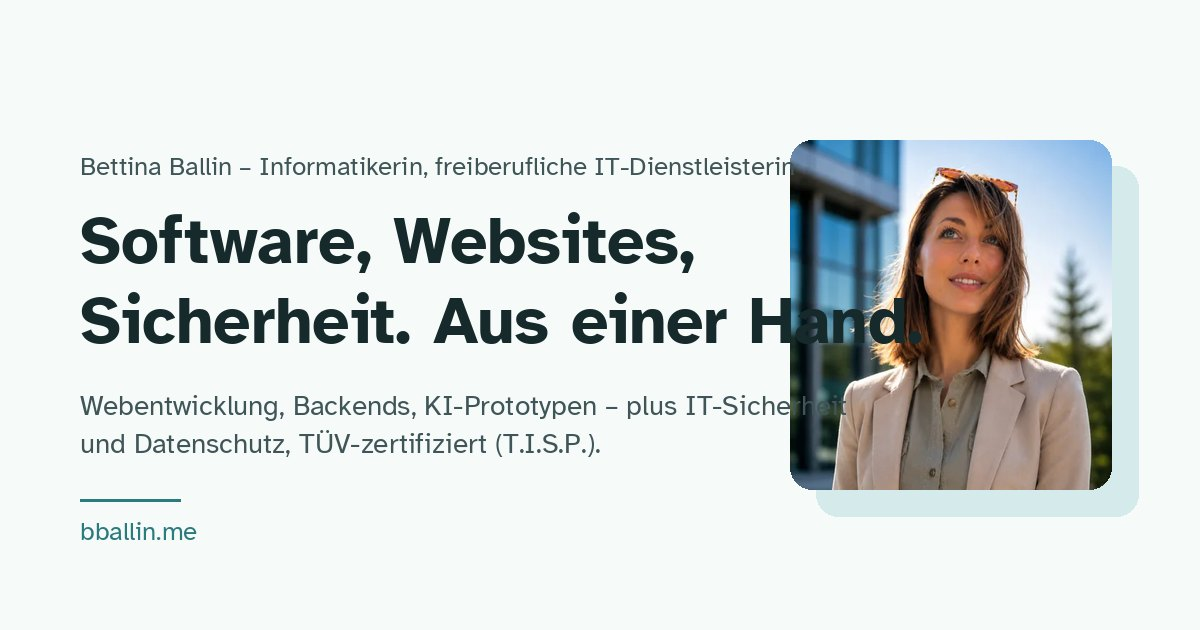
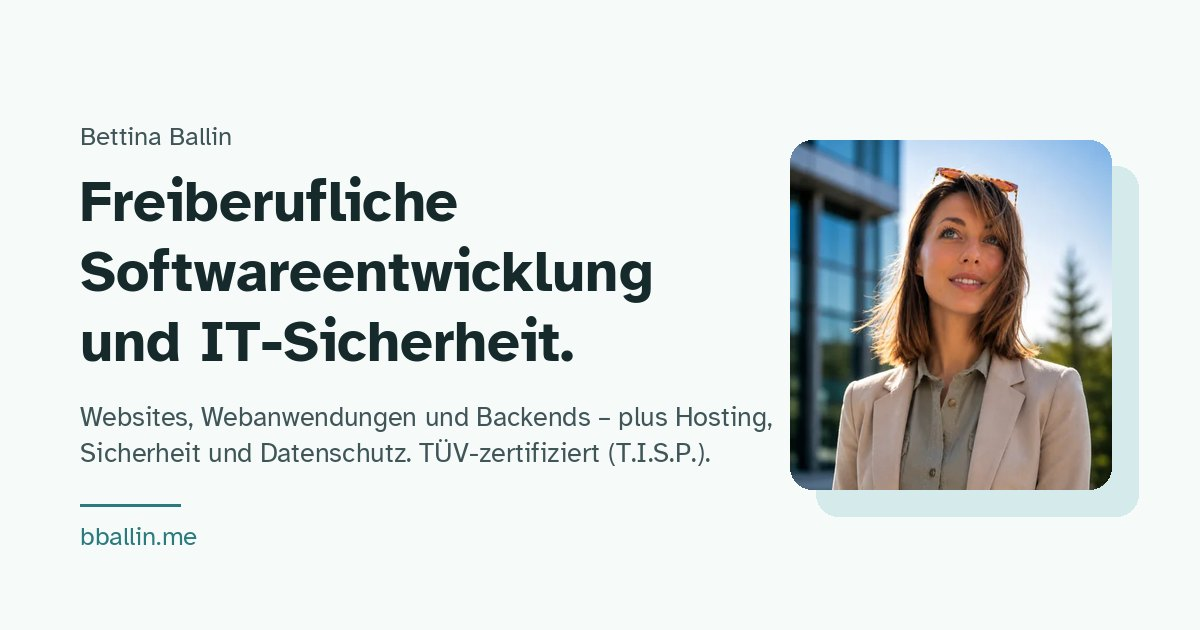
updated hero text

Changed region(s): [[0.0617, 0.2111, 0.7708, 0.573], [0.0617, 0.6333, 0.7092, 0.754], [0.0617, 0.7841, 0.185, 0.8746]]

diff --git a/site/index.html b/site/index.html
@@ -3,7 +3,7 @@
 <head>
   <meta charset="UTF-8">
   <meta name="viewport" content="width=device-width, initial-scale=1, viewport-fit=cover">
-  <title>Bettina Ballin – Softwareentwicklung, Websites und IT-Sicherheit</title>
+  <title>Bettina Ballin – Freiberufliche Softwareentwicklung und IT-Sicherheit</title>
   <meta name="description" content="Bettina Ballin ist Informatikerin (M.Sc.) und freiberufliche IT-Dienstleisterin: Webentwicklung, Software und Backends, KI-Prototypen, IT-Sicherheit und Datenschutz – aus einer Hand, TÜV-zertifiziert (T.I.S.P.).">
   <meta name="author" content="Bettina Ballin">
   <meta name="robots" content="index, follow">
@@ -18,8 +18,8 @@
   <meta property="og:type" content="website">
   <meta property="og:site_name" content="Bettina Ballin">
   <meta property="og:url" content="https://bballin.me/">
-  <meta property="og:title" content="Bettina Ballin – Softwareentwicklung, Websites und IT-Sicherheit">
-  <meta property="og:description" content="Informatikerin und freiberufliche IT-Dienstleisterin. Websites, Software, Backends, KI-Prototypen – plus IT-Sicherheit und Datenschutz aus einer Hand.">
+  <meta property="og:title" content="Bettina Ballin – Freiberufliche Softwareentwicklung und IT-Sicherheit">
+  <meta property="og:description" content="Websites, Webanwendungen und Backends – plus Hosting, Sicherheit und Datenschutz. Informatikerin (M.Sc.), TÜV-zertifiziert (T.I.S.P.).">
   <meta property="og:image" content="https://bballin.me/assets/img/og-image.jpg">
   <meta property="og:image:width" content="1200">
   <meta property="og:image:height" content="630">
@@ -27,8 +27,8 @@
   <meta property="og:locale" content="de_DE">
   <meta property="og:locale:alternate" content="en_GB">
   <meta name="twitter:card" content="summary_large_image">
-  <meta name="twitter:title" content="Bettina Ballin – Softwareentwicklung, Websites und IT-Sicherheit">
-  <meta name="twitter:description" content="Informatikerin und freiberufliche IT-Dienstleisterin. Websites, Software, Backends, KI-Prototypen – plus IT-Sicherheit und Datenschutz aus einer Hand.">
+  <meta name="twitter:title" content="Bettina Ballin – Freiberufliche Softwareentwicklung und IT-Sicherheit">
+  <meta name="twitter:description" content="Websites, Webanwendungen und Backends – plus Hosting, Sicherheit und Datenschutz. Informatikerin (M.Sc.), TÜV-zertifiziert (T.I.S.P.).">
   <meta name="twitter:image" content="https://bballin.me/assets/img/og-image.jpg">
 
   <link rel="icon" href="favicon.svg" type="image/svg+xml">
@@ -94,9 +94,9 @@
 
     <section class="hero wrap">
       <div class="hero-text">
-        <p class="kicker">Bettina Ballin – Informatikerin (M.Sc.), freiberufliche IT-Dienstleisterin</p>
-        <h1>Software, Websites, Sicherheit. Aus einer Hand.</h1>
-        <p class="lead">Ich entwickle Websites, Webanwendungen, Backends und Schnittstellen für Unternehmen, die eine Entwicklerin brauchen, die auch an Betrieb, Sicherheit und Datenschutz denkt. Über fünf Jahre Erfahrung in Softwareentwicklung, Systemintegration und KI-Sicherheitsforschung – und als TÜV-zertifizierte Sicherheitsexpertin (T.I.S.P.) und externe Datenschutzbeauftragte auch alles, was nach dem Launch kommt.</p>
+        <p class="kicker">Bettina Ballin</p>
+        <h1>Freiberufliche Softwareentwicklung und IT-Sicherheit.</h1>
+        <p class="lead">Ich entwickle Websites, Webanwendungen und Backends und kümmere mich um das, was dazugehört: Hosting, Sicherheit, Datenschutz. Informatikerin (M.Sc., TU Darmstadt), TÜV-zertifiziert (T.I.S.P.).</p>
         <div class="actions">
           <a class="button" href="#kontakt">Projekt anfragen</a>
           <a class="button button-quiet" href="#leistungen">Leistungen ansehen</a>

diff --git a/site/en/index.html b/site/en/index.html
@@ -3,7 +3,7 @@
 <head>
   <meta charset="UTF-8">
   <meta name="viewport" content="width=device-width, initial-scale=1, viewport-fit=cover">
-  <title>Bettina Ballin – Software development, websites and IT security</title>
+  <title>Bettina Ballin – Freelance software development and IT security</title>
   <meta name="description" content="Bettina Ballin is a computer scientist (M.Sc.) and freelance IT professional: web development, software and backends, AI prototypes, IT security and data protection – from one source, TÜV-certified (T.I.S.P.).">
   <meta name="author" content="Bettina Ballin">
   <meta name="robots" content="index, follow">
@@ -18,8 +18,8 @@
   <meta property="og:type" content="website">
   <meta property="og:site_name" content="Bettina Ballin">
   <meta property="og:url" content="https://bballin.me/en/">
-  <meta property="og:title" content="Bettina Ballin – Software development, websites and IT security">
-  <meta property="og:description" content="Computer scientist and freelance IT professional. Websites, software, backends, AI prototypes – plus IT security and data protection from one source.">
+  <meta property="og:title" content="Bettina Ballin – Freelance software development and IT security">
+  <meta property="og:description" content="Websites, web applications and backends – plus hosting, security and data protection. Computer scientist (M.Sc.), TÜV-certified (T.I.S.P.).">
   <meta property="og:image" content="https://bballin.me/assets/img/og-image.jpg">
   <meta property="og:image:width" content="1200">
   <meta property="og:image:height" content="630">
@@ -27,8 +27,8 @@
   <meta property="og:locale" content="en_GB">
   <meta property="og:locale:alternate" content="de_DE">
   <meta name="twitter:card" content="summary_large_image">
-  <meta name="twitter:title" content="Bettina Ballin – Software development, websites and IT security">
-  <meta name="twitter:description" content="Computer scientist and freelance IT professional. Websites, software, backends, AI prototypes – plus IT security and data protection from one source.">
+  <meta name="twitter:title" content="Bettina Ballin – Freelance software development and IT security">
+  <meta name="twitter:description" content="Websites, web applications and backends – plus hosting, security and data protection. Computer scientist (M.Sc.), TÜV-certified (T.I.S.P.).">
   <meta name="twitter:image" content="https://bballin.me/assets/img/og-image.jpg">
 
   <link rel="icon" href="../favicon.svg" type="image/svg+xml">
@@ -94,9 +94,9 @@
 
     <section class="hero wrap">
       <div class="hero-text">
-        <p class="kicker">Bettina Ballin – computer scientist (M.Sc.), freelance IT professional</p>
-        <h1>Software, websites, security. From one source.</h1>
-        <p class="lead">I build websites, web applications, backends and integrations for companies that need a developer who also thinks about operations, security and data protection. More than five years in software development, systems integration and AI security research – and as a TÜV-certified security professional (T.I.S.P.) and external data protection officer, everything that comes after launch too.</p>
+        <p class="kicker">Bettina Ballin</p>
+        <h1>Freelance software development and IT security.</h1>
+        <p class="lead">I build websites, web applications and backends and take care of what comes with them: hosting, security, data protection. Computer scientist (M.Sc., TU Darmstadt), TÜV-certified (T.I.S.P.).</p>
         <div class="actions">
           <a class="button" href="#contact">Request a project</a>
           <a class="button button-quiet" href="#services">See services</a>

diff --git a/site/assets/css/site.css b/site/assets/css/site.css
@@ -1,6 +1,6 @@
 /* bballin.me – redesign 2026
    Type: Atkinson Hyperlegible 400/700 (Braille Institute, OFL) for everything,
-         High Spirited (Octotype, commercial licence) only for the signature in the footer.
+         Mr De Haviland (Sudtipos, OFL) only for the signature in the footer.
    Colour: one teal accent, used for links, focus, chips and the hero backdrop.
    No gradients, no shadows, no cards – rhythm and rules carry the structure. */
 
@@ -19,15 +19,13 @@
   font-display: swap;
   src: url("../fonts/atkinson-hyperlegible-latin-700-normal.woff2") format("woff2");
 }
-/* Signature. High Spirited (Octotype / Thomas Boucherie) is free for personal use only:
-   get the commercial web licence, then subset the TTF to the signature glyphs:
-   pyftsubset "High Spirited.ttf" --text="Bettina Ballin" --flavor=woff2 --output-file=high-spirited-signature.woff2 */
+/* Signature: Mr De Haviland (Sudtipos, OFL – free for commercial use), self-hosted. */
 @font-face {
-  font-family: "High Spirited";
+  font-family: "Mr De Haviland";
   font-style: normal;
   font-weight: 400;
   font-display: swap;
-  src: url("../fonts/high-spirited-signature.woff2") format("woff2");
+  src: url("../fonts/mr-de-haviland-latin-400-normal.woff2") format("woff2");
 }
 
 /* ---------- tokens ---------- */
@@ -202,7 +200,7 @@ body::before {
   padding-block: clamp(3rem, 8vw, 6rem) clamp(2rem, 5vw, 4rem);
 }
 .kicker { color: var(--ink-2); margin-bottom: 1.25rem; font-size: var(--step--1); }
-.hero h1 { max-width: 14ch; margin-bottom: 1.25rem; }
+.hero h1 { max-width: 24ch; margin-bottom: 1.25rem; hyphens: manual; -webkit-hyphens: manual; }
 .lead { font-size: var(--step-1); line-height: 1.5; color: var(--ink-2); max-width: 52ch; margin-bottom: 1.75rem; }
 .actions { display: flex; flex-wrap: wrap; gap: 0.75rem; }
 
@@ -355,7 +353,7 @@ body::before {
 /* footer */
 .footer { border-top: 1px solid var(--line); padding-block: 2.5rem calc(2.5rem + env(safe-area-inset-bottom, 0px)); }
 .footer-inner { display: grid; grid-template-columns: 1fr auto; gap: 0.5rem 2rem; align-items: center; }
-.signature { font-family: "High Spirited", "Snell Roundhand", "Segoe Script", cursive; font-size: 2.4rem; line-height: 1.1; color: var(--teal-ink); margin: 0; grid-column: 1 / -1; }
+.signature { font-family: "Mr De Haviland", "Snell Roundhand", "Segoe Script", cursive; font-size: 3rem; line-height: 1; color: var(--teal-ink); margin: 0; grid-column: 1 / -1; }
 .footer-meta { color: var(--ink-3); font-size: var(--step--1); margin: 0; }
 .footer-links { list-style: none; display: flex; flex-wrap: wrap; gap: 1.25rem; font-size: var(--step--1); }
 
@@ -384,6 +382,7 @@ body::before {
   .topnav { order: 3; flex-basis: 100%; margin-top: 0.4rem; }
   .topnav ul { gap: 1.1rem; padding-bottom: 0.2rem; }
   html { scroll-padding-top: 6.5rem; }
+  .hero h1 { font-size: clamp(1.75rem, 8vw, 2.4rem); hyphens: auto; -webkit-hyphens: auto; }
   .footer-inner { grid-template-columns: 1fr; }
 }
 

diff --git a/src/content.py b/src/content.py
@@ -23,9 +23,9 @@ DE = {
     "switch_aria": "Switch to English",
     "theme_aria": "Dunkelmodus umschalten",
     "skip": "Zum Inhalt springen",
-    "title": "Bettina Ballin – Softwareentwicklung, Websites und IT-Sicherheit",
+    "title": "Bettina Ballin – Freiberufliche Softwareentwicklung und IT-Sicherheit",
     "description": "Bettina Ballin ist Informatikerin (M.Sc.) und freiberufliche IT-Dienstleisterin: Webentwicklung, Software und Backends, KI-Prototypen, IT-Sicherheit und Datenschutz – aus einer Hand, TÜV-zertifiziert (T.I.S.P.).",
-    "og_description": "Informatikerin und freiberufliche IT-Dienstleisterin. Websites, Software, Backends, KI-Prototypen – plus IT-Sicherheit und Datenschutz aus einer Hand.",
+    "og_description": "Websites, Webanwendungen und Backends – plus Hosting, Sicherheit und Datenschutz. Informatikerin (M.Sc.), TÜV-zertifiziert (T.I.S.P.).",
     "job_title": "Freiberufliche Informatikerin – Softwareentwicklung, Websites, IT-Sicherheit und Datenschutz",
 
     "nav": [
@@ -36,9 +36,9 @@ DE = {
         ("#kontakt", "Kontakt"),
     ],
 
-    "hero_kicker": "Bettina Ballin – Informatikerin (M.Sc.), freiberufliche IT-Dienstleisterin",
-    "hero_title": "Software, Websites, Sicherheit. Aus einer Hand.",
-    "hero_lead": "Ich entwickle Websites, Webanwendungen, Backends und Schnittstellen für Unternehmen, die eine Entwicklerin brauchen, die auch an Betrieb, Sicherheit und Datenschutz denkt. Über fünf Jahre Erfahrung in Softwareentwicklung, Systemintegration und KI-Sicherheitsforschung – und als TÜV-zertifizierte Sicherheitsexpertin (T.I.S.P.) und externe Datenschutzbeauftragte auch alles, was nach dem Launch kommt.",
+    "hero_kicker": "Bettina Ballin",
+    "hero_title": "Freiberufliche Softwareentwicklung und IT-Sicherheit.",
+    "hero_lead": "Ich entwickle Websites, Webanwendungen und Backends und kümmere mich um das, was dazugehört: Hosting, Sicherheit, Datenschutz. Informatikerin (M.Sc., TU Darmstadt), TÜV-zertifiziert (T.I.S.P.).",
     "hero_cta": "Projekt anfragen",
     "hero_cta2": "Leistungen ansehen",
     "hero_photo_alt": "Porträt von Bettina Ballin",
@@ -253,9 +253,9 @@ EN = {
     "switch_aria": "Auf Deutsch wechseln",
     "theme_aria": "Toggle dark mode",
     "skip": "Skip to content",
-    "title": "Bettina Ballin – Software development, websites and IT security",
+    "title": "Bettina Ballin – Freelance software development and IT security",
     "description": "Bettina Ballin is a computer scientist (M.Sc.) and freelance IT professional: web development, software and backends, AI prototypes, IT security and data protection – from one source, TÜV-certified (T.I.S.P.).",
-    "og_description": "Computer scientist and freelance IT professional. Websites, software, backends, AI prototypes – plus IT security and data protection from one source.",
+    "og_description": "Websites, web applications and backends – plus hosting, security and data protection. Computer scientist (M.Sc.), TÜV-certified (T.I.S.P.).",
     "job_title": "Freelance computer scientist – software development, websites, IT security and data protection",
 
     "nav": [
@@ -266,9 +266,9 @@ EN = {
         ("#contact", "Contact"),
     ],
 
-    "hero_kicker": "Bettina Ballin – computer scientist (M.Sc.), freelance IT professional",
-    "hero_title": "Software, websites, security. From one source.",
-    "hero_lead": "I build websites, web applications, backends and integrations for companies that need a developer who also thinks about operations, security and data protection. More than five years in software development, systems integration and AI security research – and as a TÜV-certified security professional (T.I.S.P.) and external data protection officer, everything that comes after launch too.",
+    "hero_kicker": "Bettina Ballin",
+    "hero_title": "Freelance software development and IT security.",
+    "hero_lead": "I build websites, web applications and backends and take care of what comes with them: hosting, security, data protection. Computer scientist (M.Sc., TU Darmstadt), TÜV-certified (T.I.S.P.).",
     "hero_cta": "Request a project",
     "hero_cta2": "See services",
     "hero_photo_alt": "Portrait of Bettina Ballin",
